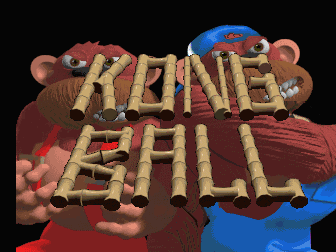
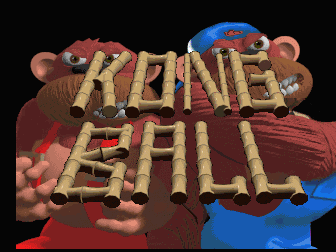
docs: remake Kong Ball's before/after title without the row bias
Kong Ball's title draws its gorillas in the background plane, so its
"after" image still showed the old three-row read; the pair's measured
share moved too little for the check to notice. It joins the recipe in
remake-media.sh, and its figure and caption follow the new image.

diff --git a/README.md b/README.md
@@ -90,7 +90,7 @@ In-race, the original driver leaves the sky unpainted: no horizon, no mountain, 
 <td align="center"><b>here</b></td>
 </tr></table>
 
-Kong Ball's title, which the original driver paints over the leftovers of the previous screen instead of over the gorilla. 76.7% of the pixels change. (`kongball`, frame 200)
+Kong Ball's title, which the original driver paints over the leftovers of the previous screen instead of over the gorilla. 60.1% of the pixels change. (`kongball`, frame 200)
 
 <!-- end of generated block -->
 
